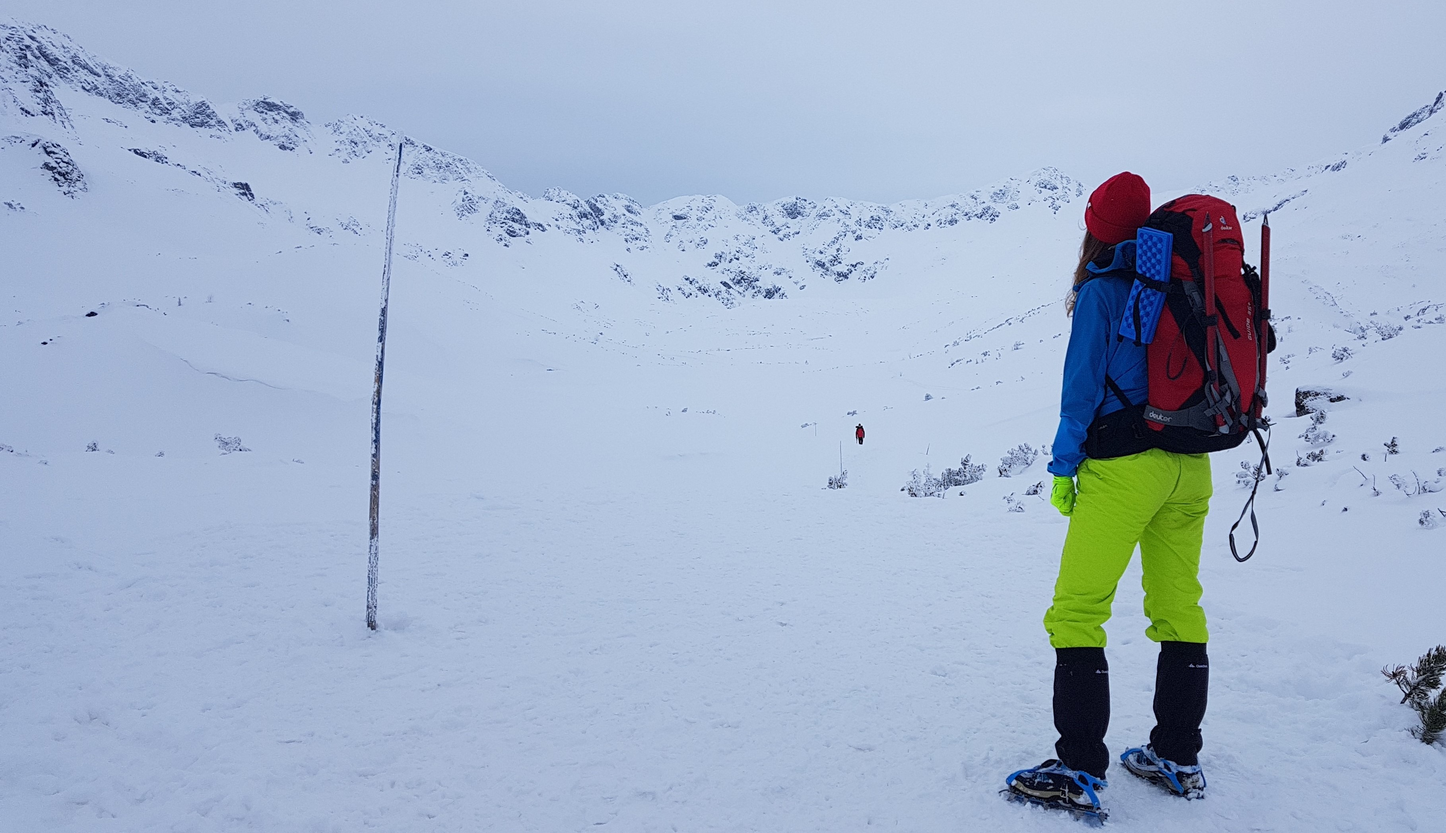
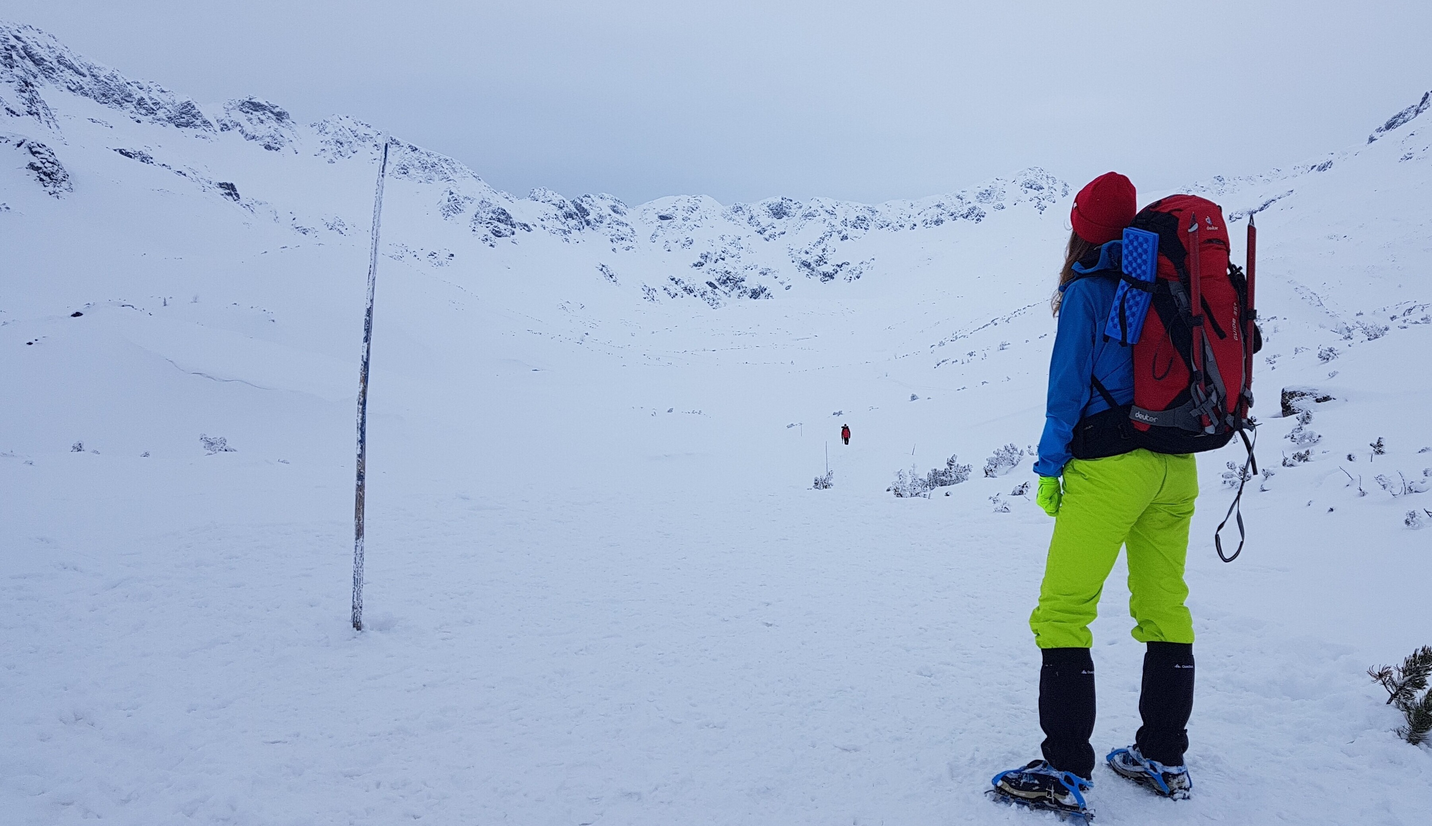
added new photo
Added new photo in slider and fixed size of fonts in smaller devices.

diff --git a/index.html b/index.html
@@ -58,10 +58,10 @@
 					<a href="#" class="nav-link">HOME</a>
 				</li>
 				<li class="nav-item">
-					<a href="#" class="nav-link">O MNIE</a>
+					<a href="index.html#about" class="nav-link">O MNIE</a>
 				</li>
 				<li class="nav-item">
-					<a href="#" class="nav-link">KONTAKT</a>
+					<a href="index.html#contact" class="nav-link">KONTAKT</a>
 				</li>
 			</ul>
 		</div>
@@ -81,37 +81,23 @@
 			<div class="carousel-caption">
 				<h2 class="display-3">Karolina Zielonka</h2>
 				<h3>UST student</h3>
-				<!--<button type="button" class="btn btn-outline-light btn-lg">VIEW DEMO</button>
-				<button type="button" class="btn btn-primary btn-lg">Get Started</button>--> 
 			</div>
 		</div>
 		<div class="carousel-item">
-			<img src="img/background.jpg" alt="">
+			<img src="img/background2.jpg" alt="">
 		</div>
 		<div class="carousel-item">
-			<img src="img/background.jpg" alt="">
+			<img src="img/background3.jpg" alt="">
 		</div>
 
 	</div>
 </div>
 
-<!--- Jumbotron 
-<div class="container-fluid">
-	<div class="row jumbotron">
-		<div class="col-xs-12 col-sm-12 col-md-9 col-lg-9 col-xl-10">
-			<p class="lead">Lorem ipsum dolor sit amet consectetur adipisicing elit. Perferendis nostrum dicta cumque hic fugit doloribus maiores sapiente consequuntur tempore magni! Lorem ipsum, dolor sit amet consectetur adipisicing elit. Accusamus delectus itaque aliquam sit, laborum iste quidem quas dolor atque dolorem.</p>
-		</div>
-		<div class="col-xs-12 col-sm-12 col-md-3 col-lg-3 col-xl-2">
-			<a href="#"><button type="button" class="btn btn-outline-secondary btn-lg">web hosting</button></a>
-		</div>
-	</div>
-</div> -->
-
 <!--- Welcome Section -->
 <div class="container-fluid padding">
 	<div class="row welcome text-center">
 		<div class="col-12">
-			<h1 class="display-4"> Poznaj mnie bliżej</h1>
+			<h1 id="about" class="display-4"> Poznaj mnie bliżej</h1>
 			<hr>
 			<div class="col-12">
 				<p class="lead">Lorem ipsum dolor, sit amet consectetur adipisicing elit. Voluptatibus quas laudantium officiis, magnam commodi possimus inventore maxime dignissimos dicta optio illum tempora asperiores consequuntur facilis nobis in necessitatibus perspiciatis delectus.</p>
@@ -157,69 +143,25 @@
 	<div class="row padding">
 		<div class="col-md-12 col-lg-6">
 			<br>
-			<h2>Zainteresowania</h2>
+			<h2 class="text-center">Zainteresowania</h2>
 			<br>
-			<p>Lorem, ipsum dolor sit amet consectetur adipisicing elit. Tempore laborum earum, saepe veritatis iste illo at omnis rerum dolores laudantium! Labore culpa quaerat autem beatae corporis unde explicabo, laudantium corrupti!</p>
+			<p class="lead">Lorem, ipsum dolor sit amet consectetur adipisicing elit. Tempore laborum earum, saepe veritatis iste illo at omnis rerum dolores laudantium! Labore culpa quaerat autem beatae corporis unde explicabo, laudantium corrupti!</p>
 			<p>Lorem ipsum dolor sit amet consectetur, adipisicing elit. Quibusdam, aspernatur.</p>
 			<p>Lorem, ipsum dolor sit amet consectetur adipisicing elit. Voluptates, doloribus consequatur! Amet possimus facere aut?</p>
 			<br>
-			<a href="" class="btn btn-primary">LEARN MORE</a>
 		</div>
 		<div class="col-lg-6">
-			<img src="img/me.JPG" class="img-thumbnail" alt="">
+			<img src="img/ja.jpg" class="img-thumbnail" alt="">
 		</div>
 	</div>
 </div>
 <hr class="my-4">
-<!--- Meet the team 
-<div class="container-fluid padding">
-	<div class="row welcome text-center">
-		<div class="col-12">
-			<h1 class=display-4>Meet me</h1>
-		</div>
-		<hr>
-	</div>
-</div>
 
-<div class="container-fluid padding">
-	<div class="row padding">
-		<div class="col-md-4">
-			<div class="card">
-				<img class='card-img-top' src="img/team1.png" alt="">
-				<div class="card-body">
-					<h4 class="card-title">JOHN DOE</h4>
-					<p>Lorem ipsum, dolor sit amet consectetur adipisicing elit. Officia, dolorum!</p>
-					<a href="" class="btn btn-outline-secondary">See more</a>
-				</div>
-			</div>
-		</div>
-		<div class="col-md-4">
-			<div class="card">
-				<img class='card-img-top' src="img/team2.png" alt="">
-				<div class="card-body">
-					<h4 class="card-title">JOHN DOE</h4>
-					<p>Lorem ipsum, dolor sit amet consectetur adipisicing elit. Officia, dolorum!</p>
-					<a href="" class="btn btn-outline-secondary">See more</a>
-				</div>
-			</div>
-		</div>
-		<div class="col-md-4">
-			<div class="card">
-				<img class='card-img-top' src="img/team3.png" alt="">
-				<div class="card-body">
-					<h4 class="card-title">JOHN DOE</h4>
-					<p>Lorem ipsum, dolor sit amet consectetur adipisicing elit. Officia, dolorum!</p>
-					<a href="" class="btn btn-outline-secondary">See more</a>
-				</div>
-			</div>
-		</div>
-	</div>
-</div>-->
 <!--- Connect -->
-<div class="container-fluid padding">
+<div id="contact" class="container-fluid padding">
 	<div class="row text-center padding">
 		<div class="col-12">
-			<h2>Conntact</h2>
+			<h2>KONTAKT</h2>
 		</div>
 		<div class="col-12 social padding">
 			<a href="#"><i class="fab fa-facebook" aria-hidden="true"></i></a>

diff --git a/style.css b/style.css
@@ -19,7 +19,7 @@ html, body {
   height: 100%;
   width: 100%;
   font-family: 'Poppins', sans-serif;
-  color: #222;
+  color: rgb(0, 12, 39);
 }
 .navbar {
   padding: .8rem;
@@ -49,18 +49,6 @@ html, body {
   font-weight: 500;
   text-shadow: 1px 1px 10px #000;
   padding-bottom: 1rem;
-}
-.btn-primary{
-  background-color: #6648b1;
-  border: 1px solid #563d7c;
-}
-.btn-primary:hover{
-  background-color: #563d7c;
-  border: 1px solid #6648b1;
-}
-.jumbotron{
-  padding: 1rem;
-  border-radius: 0;
 }
 .padding{
   padding-bottom: 2rem;
@@ -173,7 +161,7 @@ footer a {
   .carousel-caption{
     top: 40%;
   }
-  .carousel-caption h1{
+  .carousel-caption h2{
     font-size: 250%;
   }
   .carousel-caption h3{
@@ -182,9 +170,6 @@ footer a {
   .carousel-caption .btn{
     font-size: 90%;
     padding: 8px 14px;
-  }
-  .carousel-indicators{
-    display: none;
   }
   .display-4{
     font-size: 160%;
